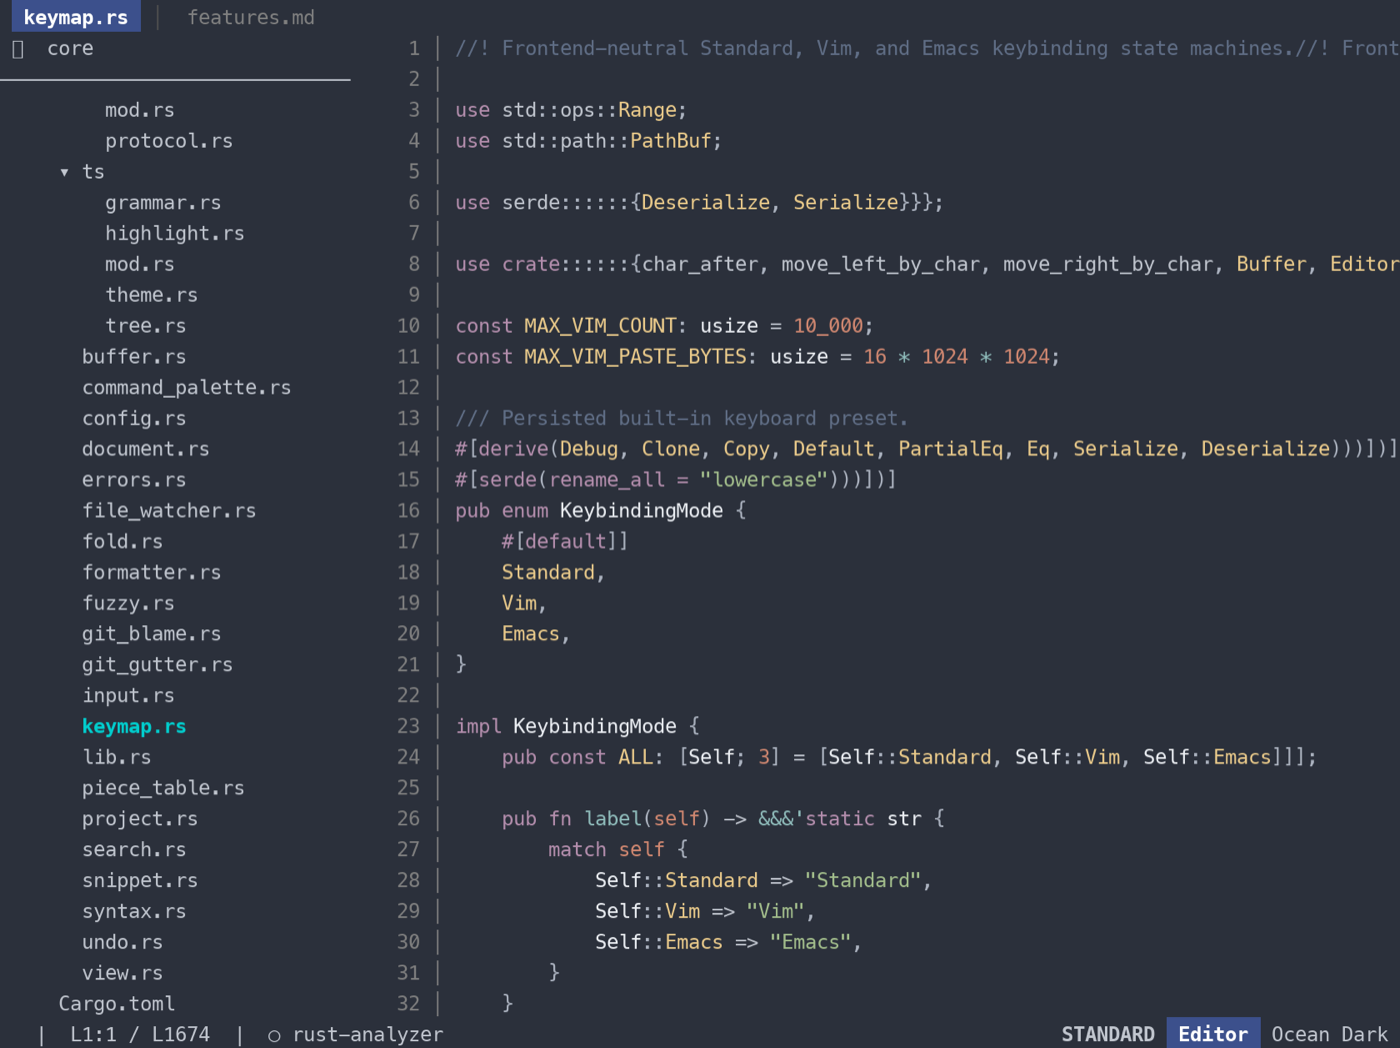
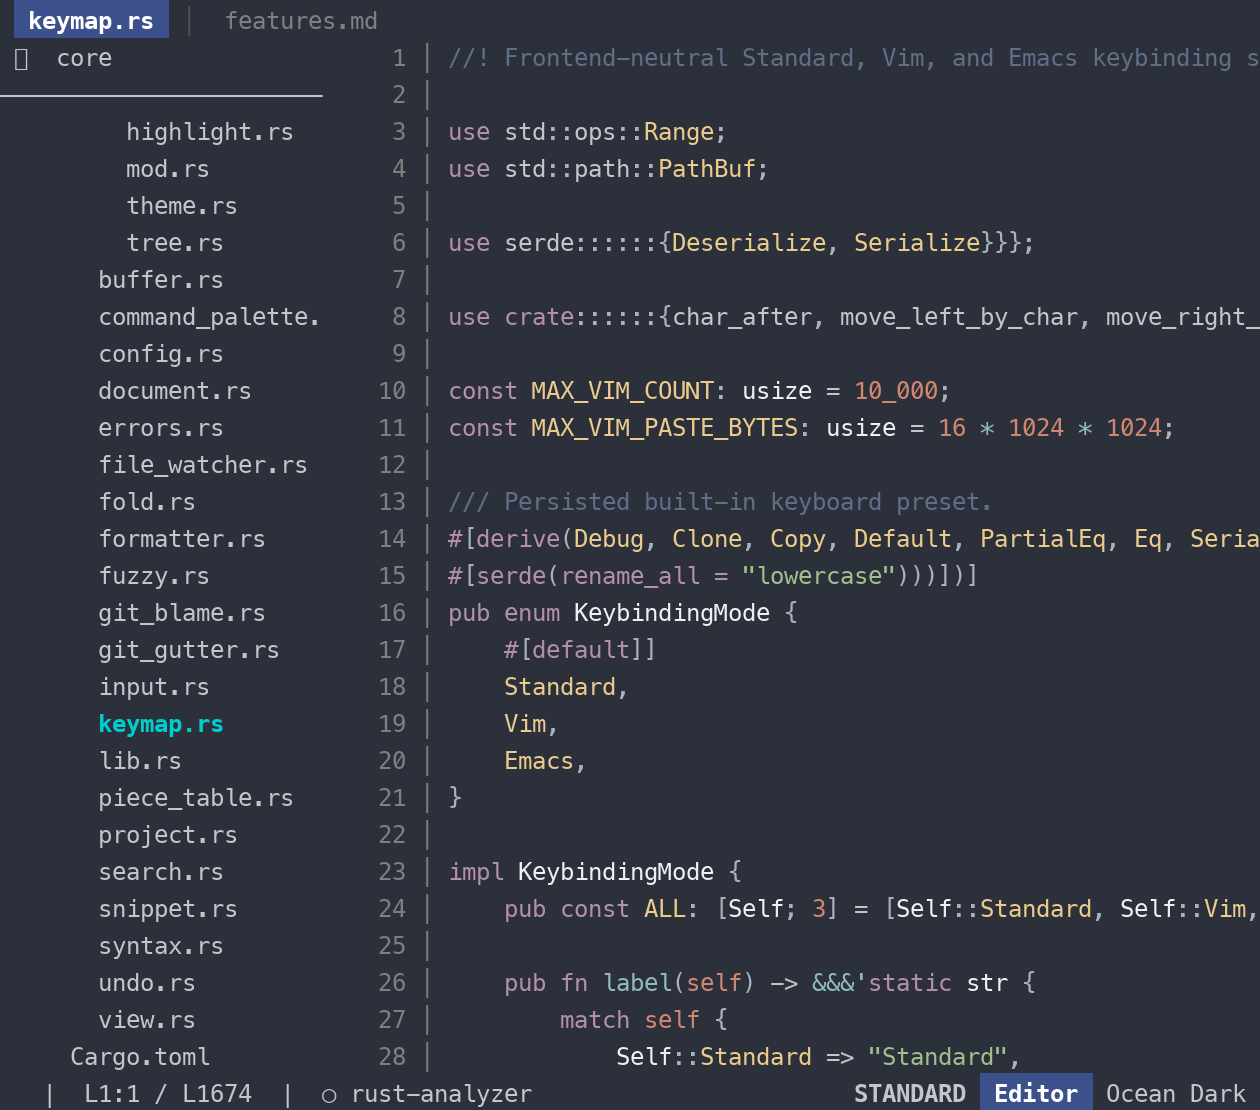
fix(site): bigger, clearer screenshots
The first hero capture was a full 1240pt window shown at ~750px, so
editor text rendered around 8px — unreadably small. Crop the hero to
the top 70% (tree + tabs + code, wider 2.1:1 aspect) so text lands at
a readable size, and render the TUI image at 90 columns instead of
120 for the same reason.

Anchor the floating cards to the editor window instead of the stage
so they overlap the shot at any image height (window overflow now
visible; the shot rounds its own bottom corners).

diff --git a/site/index.html b/site/index.html
@@ -85,21 +85,21 @@
               <img
                 class="window-shot"
                 src="skerry-gui-hero.png"
-                alt="Skerry GUI editing keymap.rs: project tree, syntax-highlighted Rust, line numbers, LSP status bar"
+                alt="Skerry GUI editing keymap.rs: project tree, document tabs, syntax-highlighted Rust with line numbers"
                 width="1600"
-                height="1070"
+                height="748"
                 loading="lazy"
               />
             </picture>
-          </div>
-          <div class="floating-card blame-card">
-            <span class="card-kicker">Git blame · 2d</span>
-            <strong>Share keymaps across frontends</strong>
-            <small>7f13bd8 · Søren Mathiasen</small>
-          </div>
-          <div class="floating-card file-card">
-            <span class="file-icon">▦</span>
-            <div><strong>CSV table view</strong><small>Source · Table</small></div>
+            <div class="floating-card blame-card">
+              <span class="card-kicker">Git blame · 2d</span>
+              <strong>Share keymaps across frontends</strong>
+              <small>7f13bd8 · Søren Mathiasen</small>
+            </div>
+            <div class="floating-card file-card">
+              <span class="file-icon">▦</span>
+              <div><strong>CSV table view</strong><small>Source · Table</small></div>
+            </div>
           </div>
           </div>
         </div>
@@ -131,8 +131,8 @@
                   class="terminal-shot"
                   src="skerry-tui.png"
                   alt="skerry-tui editing keymap.rs: project tree, tabs, syntax highlighting, and a status bar"
-                  width="1400"
-                  height="1048"
+                  width="1260"
+                  height="1110"
                   loading="lazy"
                 />
               </picture>

diff --git a/site/styles.css b/site/styles.css
@@ -91,7 +91,9 @@ h1 span { color: #8290a4; }
   top: 5%;
   left: 0;
   width: 103%;
-  overflow: hidden;
+  /* Overflow visible so the floating cards anchored to the window can
+     spill past its edges; the shot rounds its own bottom corners. */
+  overflow: visible;
   border: 1px solid rgba(137, 171, 218, .27);
   border-radius: 15px;
   background: #0c121d;
@@ -105,7 +107,7 @@ h1 span { color: #8290a4; }
 .traffic-lights i, .terminal-bar i { width: 9px; height: 9px; border-radius: 50%; background: #ff5f57; }
 .traffic-lights i:nth-child(2), .terminal-bar i:nth-child(2) { background: #febc2e; }
 .traffic-lights i:nth-child(3), .terminal-bar i:nth-child(3) { background: #28c840; }
-.window-shot { display: block; width: 100%; height: auto; }
+.window-shot { display: block; width: 100%; height: auto; border-radius: 0 0 14px 14px; }
 .floating-card { position: absolute; z-index: 2; border: 1px solid var(--line-strong); background: rgba(15, 24, 37, .92); box-shadow: 0 20px 52px rgba(0,0,0,.45); backdrop-filter: blur(18px); }
 .blame-card { right: -8%; bottom: 3%; display: flex; flex-direction: column; gap: .35rem; width: 280px; padding: 1rem; border-radius: 11px; }
 .card-kicker { color: var(--cyan); font: .62rem ui-monospace, monospace; text-transform: uppercase; letter-spacing: .08em; }

diff --git a/skerry-tui/src/screenshot.rs b/skerry-tui/src/screenshot.rs
@@ -25,8 +25,8 @@ mod tests {
     use crate::app::App;
     use crate::ui;
 
-    const WIDTH: u16 = 120;
-    const HEIGHT: u16 = 34;
+    const WIDTH: u16 = 90;
+    const HEIGHT: u16 = 30;
 
     fn color_hex(c: Color) -> String {
         match c {
